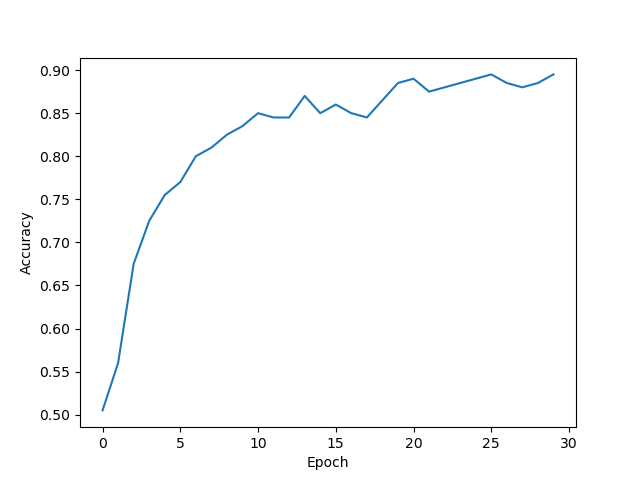
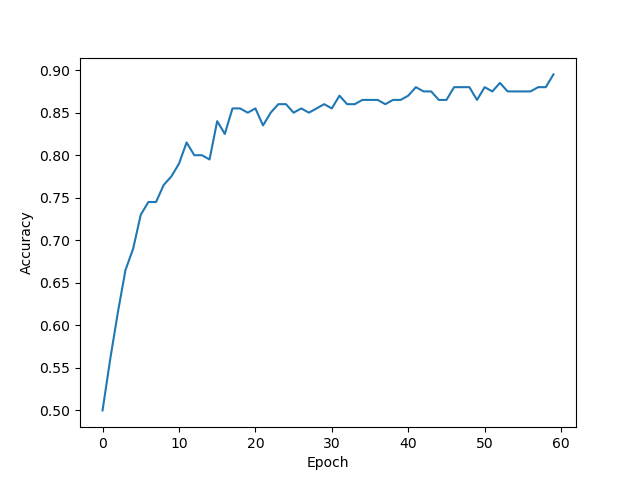
Updates

diff --git a/model.py b/model.py
@@ -1,17 +1,17 @@
 import torch
-import torchvision
-
-import torch.nn as nn
 import torch.nn.functional as F
 import torch.optim as optim
 
 import matplotlib.pyplot as plt
 import seaborn as sns
-from data_loader import load_data
-from plots import plot_MNIST_data
-from create_data import create_labeled_data, create_unlabeled_data, create_testing_data
 
-n_epochs = 30
+from data_loader import load_data
+from plots import plot_MNIST_data, plot_loss
+from create_data import create_labeled_data, create_unlabeled_data, create_testing_data
+from networks import FNet, GNet
+from metrics import LossDiscriminative, LossGenerative
+
+n_epochs = 60
 batch_size = 32
 alpha = 0.05
 beta = 0.0001
@@ -21,6 +21,7 @@ torch.manual_seed(random_seed)
 torch.backends.cudnn.enabled = True
 
 train_loader, test_loader = load_data()
+
 # Training data
 train_set = enumerate(train_loader)
 train_batch_idx, (train_data, train_targets) = next(train_set)
@@ -29,8 +30,10 @@ train_batch_idx, (train_data, train_targets) = next(train_set)
 test_set = enumerate(test_loader)
 test_batch_idx, (test_data, test_targets) = next(test_set)
 
+# Vizualize MNIST dataset
 plot_MNIST_data(train_data, train_targets)
 
+# Create labeled, unlabeled and test data
 labeled_pos, labeled_neg = create_labeled_data(100, train_targets)
 unlabeled = create_unlabeled_data(2000)
 test = create_testing_data(test_targets)
@@ -44,9 +47,9 @@ def get_accuracy(test, threshold, model):
         true_label = test[i][2]
         img0, img1 = img0.cuda(), img1.cuda()
 
-        output_f1, output_f2 = model(img0, img1)
+        output_f0, output_f1 = model(img0, img1)
 
-        euclidean_distance = F.pairwise_distance(output_f1, output_f2)
+        euclidean_distance = F.pairwise_distance(output_f0, output_f1)
 
         if euclidean_distance > threshold and true_label == -1:
             correct += 1
@@ -62,31 +65,23 @@ loss_history_d = []
 loss_history_g = []
 loss_history_step = []
 
-from networks import FNet, GNet
-
+# Initialize networks
 fnet = FNet().cuda()
 gnet = GNet().cuda()
 
-from metrics import LossDiscriminative, LossGenerative
-
+# Initialize loss functions
 criterion_1 = LossDiscriminative()
 criterion_2 = LossGenerative()
 
 optimizer = optim.RMSprop([
     {'params': fnet.parameters(), 'lr': 1e-3},
-    {'params': gnet.parameters(), 'lr': 1e-3}])
+    {'params': gnet.parameters(), 'lr': 1e-3}
+])
 
 
-def reset_grad():
-    optimizer.zero_grad()
-
-
-def show_plot(iteration, loss):
-    plt.plot(iteration, loss)
-    plt.show()
-
+# Train the networks
 train_acc = []
-for epoch in range(0, n_epochs):
+for epoch in range(n_epochs):
     fnet.train()
     train_loss = 0.0
     train_d_loss = 0.0
@@ -107,12 +102,12 @@ for epoch in range(0, n_epochs):
 
         img0, img1, label = img0.cuda(), img1.cuda(), label.cuda()
 
-        reset_grad()
-        output_f1, output_f2 = fnet(img0, img1)
-        loss_d = criterion_1(output_f1, output_f2, label)
+        optimizer.zero_grad()
+        output_f0, output_f1 = fnet(img0, img1)
+        loss_d = criterion_1(output_f0, output_f1, label)
 
-        output_g1, output_g2 = gnet(output_f1, output_f2)
-        loss_g = criterion_2(img0, img1, output_g1, output_g2)
+        output_g0, output_g1 = gnet(output_f0, output_f1)
+        loss_g = criterion_2(img0, img1, output_g0, output_g1)
 
         reg = 0
         for p in gnet.parameters():
@@ -125,7 +120,7 @@ for epoch in range(0, n_epochs):
         loss.backward()
         optimizer.step()
 
-        train_loss += loss.item()
+        train_loss += loss
         train_d_loss += loss_d
         train_g_loss += loss_g
 
@@ -142,12 +137,14 @@ for epoch in range(0, n_epochs):
     print("Epoch number {}\n Current loss {}\n".format(epoch, train_loss))
 
 
-from plots import plot_loss
+# Plot
 plot_loss(loss_history, 'Loss')
 plot_loss(loss_history_d, 'Training Discriminative Loss')
 plot_loss(loss_history_g, 'Training Generative Loss')
 plot_loss(train_acc, 'Accuracy')
 
+
+# Test the model
 fnet.eval()
 positive = []
 negative = []
@@ -156,7 +153,7 @@ tn = 0
 fp = 0
 fn = 0
 
-threshold = 0.6
+threshold = 0.5
 
 for i in range(len(test)):
     img0 = test_data[test[i][0]].unsqueeze(0)
@@ -164,9 +161,9 @@ for i in range(len(test)):
     true_label = test[i][2]
     img0, img1 = img0.cuda(), img1.cuda()
 
-    output_f1, output_f2 = fnet(img0, img1)
+    output_f0, output_f1 = fnet(img0, img1)
 
-    euclidean_distance = F.pairwise_distance(output_f1, output_f2)
+    euclidean_distance = F.pairwise_distance(output_f0, output_f1)
 
     if true_label == 1:
         positive.append(euclidean_distance)
@@ -182,10 +179,10 @@ for i in range(len(test)):
     if euclidean_distance <= threshold and true_label == -1:
         fp += 1
 
-print(tp)
-print(fp)
-print(tn)
-print(fn)
+print('True positive: ', tp)
+print('False positive: ', fp)
+print('True negative: ', tn)
+print('False negative: ', fn)
 print('Accuracy:', (tn + tp) / (tn + tp + fn + fp))
 print('Recall: ', tp / (tp + fn))
 print('Precision:', tp / (tp + fp))
@@ -193,6 +190,6 @@ print('Precision:', tp / (tp + fp))
 pos = [p.cpu().detach().numpy()[0] for p in positive]
 neg = [n.cpu().detach().numpy()[0] for n in negative]
 
-p1=sns.kdeplot(pos, shade=True, color="b")
-p2=sns.kdeplot(neg, shade=True, color="r")
+p1 = sns.kdeplot(pos, shade=True, color="b")
+p2 = sns.kdeplot(neg, shade=True, color="r")
 plt.show()

diff --git a/data_loader.py b/data_loader.py
@@ -1,26 +1,25 @@
-import torchvision.datasets as datasets
 import torch
 import torchvision
-import torchvision.transforms as transforms
-from torch.utils.data import DataLoader, Dataset, TensorDataset
+from torch.utils.data import DataLoader
+
 
 def load_data():
     train_loader = torch.utils.data.DataLoader(
-      torchvision.datasets.MNIST('/files/', train=True, download=True,
-                                 transform=torchvision.transforms.Compose([
-                                   torchvision.transforms.ToTensor(),
-                                   torchvision.transforms.Normalize(
-                                     (0.1307,), (0.3081,))
-                                 ])),
-      batch_size=60000, shuffle=True)
+        torchvision.datasets.MNIST('/files/', train=True, download=True,
+                                   transform=torchvision.transforms.Compose([
+                                       torchvision.transforms.ToTensor(),
+                                       torchvision.transforms.Normalize(
+                                           (0.1307,), (0.3081,))
+                                   ])),
+        batch_size=60000, shuffle=True)
 
     test_loader = torch.utils.data.DataLoader(
-      torchvision.datasets.MNIST('/files/', train=False, download=True,
-                                 transform=torchvision.transforms.Compose([
-                                   torchvision.transforms.ToTensor(),
-                                   torchvision.transforms.Normalize(
-                                     (0.1307,), (0.3081,))
-                                 ])),
-      batch_size=10000, shuffle=True)
+        torchvision.datasets.MNIST('/files/', train=False, download=True,
+                                   transform=torchvision.transforms.Compose([
+                                       torchvision.transforms.ToTensor(),
+                                       torchvision.transforms.Normalize(
+                                           (0.1307,), (0.3081,))
+                                   ])),
+        batch_size=10000, shuffle=True)
 
     return train_loader, test_loader

diff --git a/create_data.py b/create_data.py
@@ -23,9 +23,6 @@ def create_labeled_data(n_samples, train_targets):
     return labeled_pos, labeled_neg
 
 
-
-
-
 def create_unlabeled_data(n_samples):
     unlabeled = []
 
@@ -40,20 +37,15 @@ def create_unlabeled_data(n_samples):
 def create_testing_data(test_targets):
     test = []
     for i in range(10):
-        idxs1 = list(np.where(test_targets==i)[0])
-        idxs2 = list(np.where(test_targets!=i)[0])
+        idxs1 = list(np.where(test_targets == i)[0])
+        idxs2 = list(np.where(test_targets != i)[0])
 
         sample1 = random.sample(idxs1, 20)
         sample2 = random.sample(idxs1, 10)
         sample3 = random.sample(idxs2, 10)
 
-        for i in range(0,20,2):
-            test.append((sample1[i], sample1[i+1], 1))
+        for i in range(0, 20, 2):
+            test.append((sample1[i], sample1[i + 1], 1))
         for i in range(10):
             test.append((sample2[i], sample3[i], -1))
     return test
-
-
-
-
-
